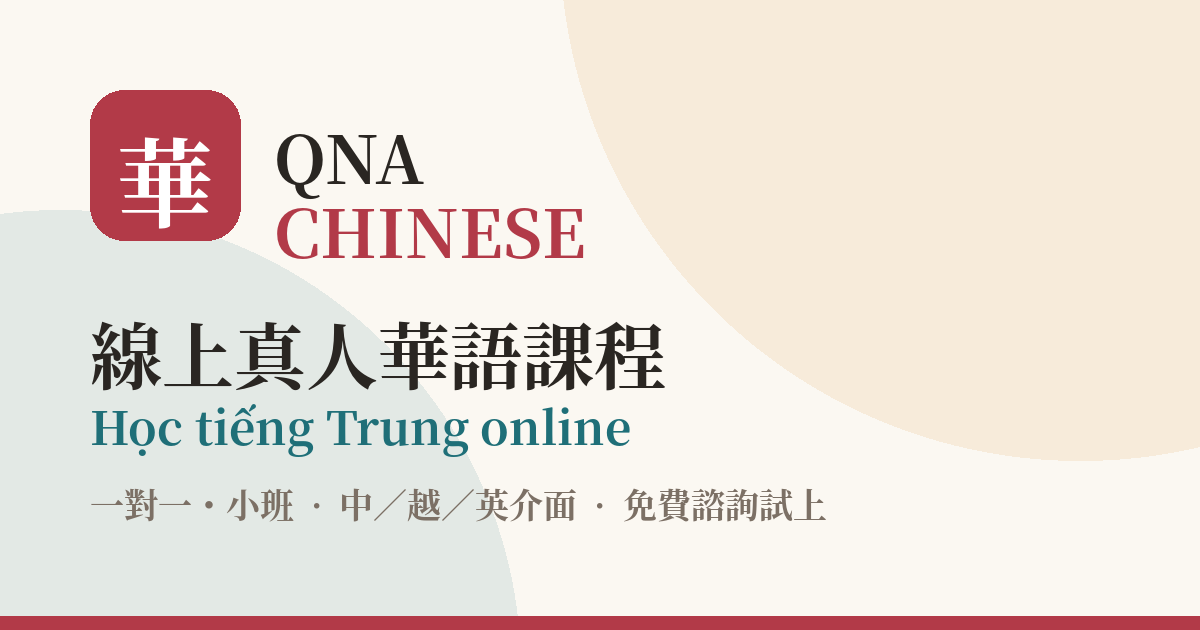
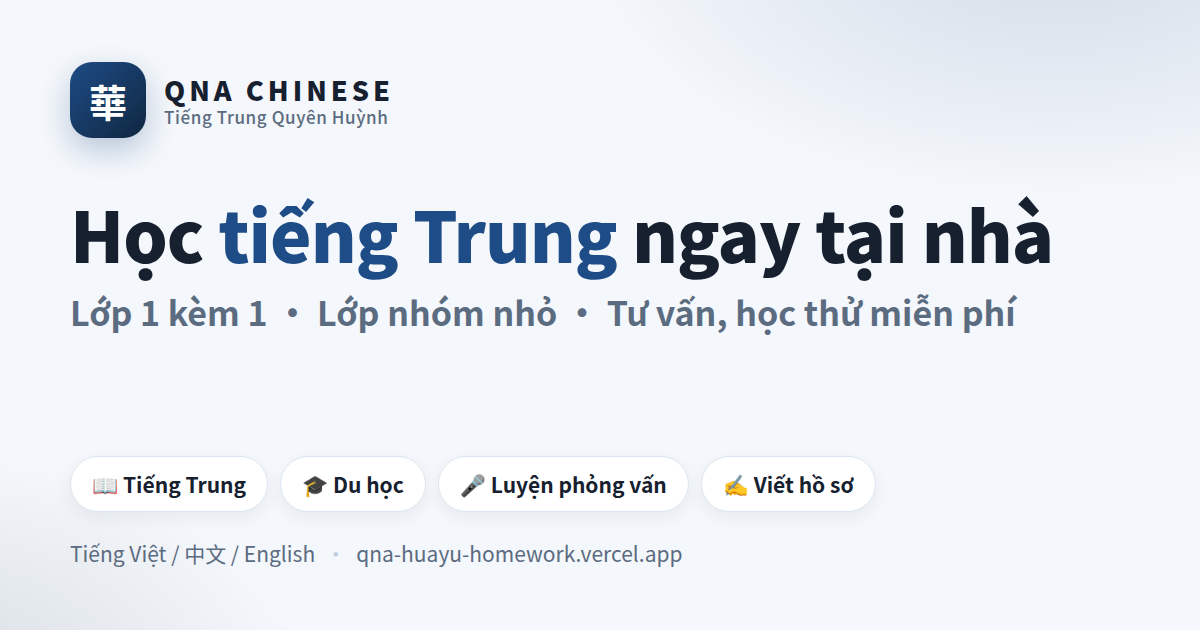
V1163 官網分享封面圖重做，改成越南文為主

diff --git a/index.html b/index.html
@@ -39,15 +39,16 @@
 <!-- 社群分享預覽（貼連結到 FB / Zalo / LINE 時顯示卡片） -->
 <meta property="og:type" content="website">
 <meta property="og:site_name" content="QNA CHINESE">
-<meta property="og:title" content="QNA CHINESE · 線上華語課程 / Học tiếng Trung online">
-<meta property="og:description" content="線上真人華語教學 — 一對一與小班，從發音、生詞到會話。中／越／英介面。免費諮詢試上。｜Dạy tiếng Trung trực tuyến, tư vấn miễn phí.">
+<!-- OGTXT_V1163 分享卡片跟封面圖一樣以越南文為主，看的人大部分是越南學生 -->
+<meta property="og:title" content="QNA CHINESE · Học tiếng Trung online">
+<meta property="og:description" content="Dạy tiếng Trung trực tuyến 1 kèm 1 và lớp nhóm nhỏ — từ phát âm, từ vựng đến hội thoại. Tư vấn và học thử miễn phí. Giao diện Tiếng Việt / 中文 / English.">
 <meta property="og:image" content="https://qna-huayu-homework.vercel.app/og-image.png">
 <meta property="og:image:width" content="1200">
 <meta property="og:image:height" content="630">
 <meta property="og:url" content="https://qna-huayu-homework.vercel.app/">
 <meta name="twitter:card" content="summary_large_image">
-<meta name="twitter:title" content="QNA CHINESE · 線上華語課程">
-<meta name="twitter:description" content="線上真人華語教學，中／越／英介面，免費諮詢試上。">
+<meta name="twitter:title" content="QNA CHINESE · Học tiếng Trung online">
+<meta name="twitter:description" content="Lớp 1 kèm 1 và lớp nhóm nhỏ. Tư vấn, học thử miễn phí.">
 <meta name="twitter:image" content="https://qna-huayu-homework.vercel.app/og-image.png">
 <link rel="preconnect" href="https://fonts.googleapis.com">
 <link rel="preconnect" href="https://fonts.gstatic.com" crossorigin>
